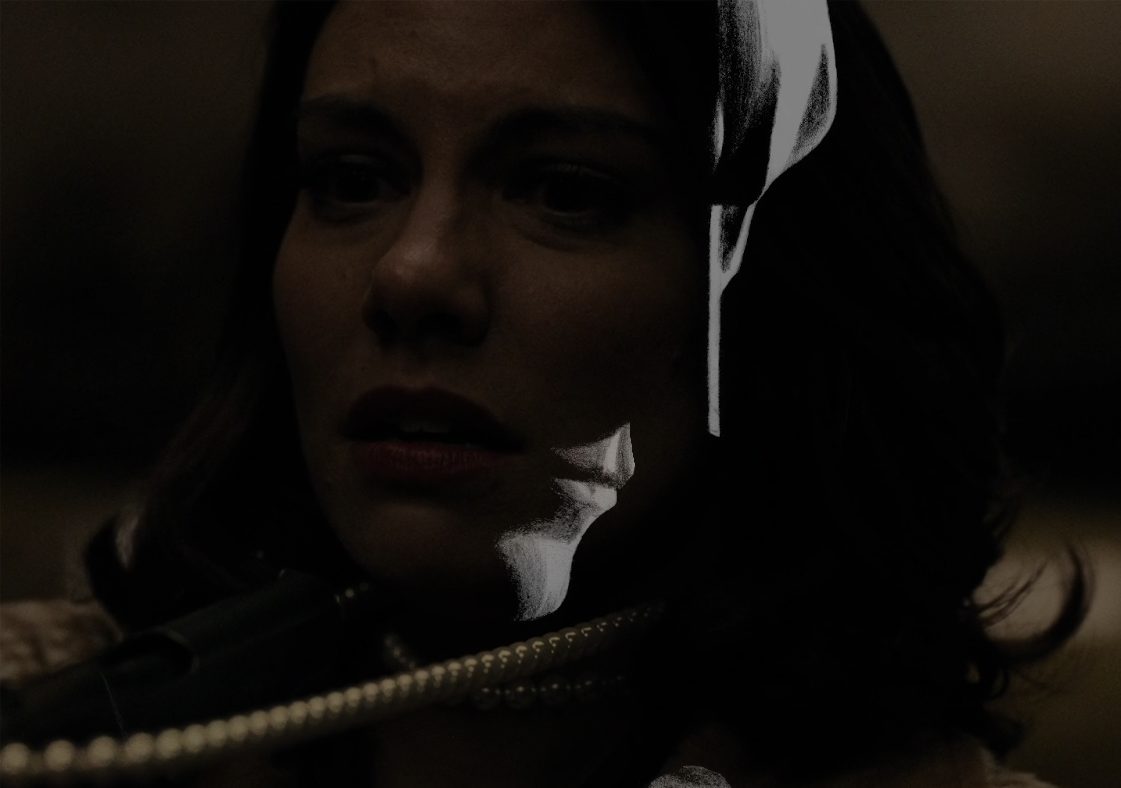
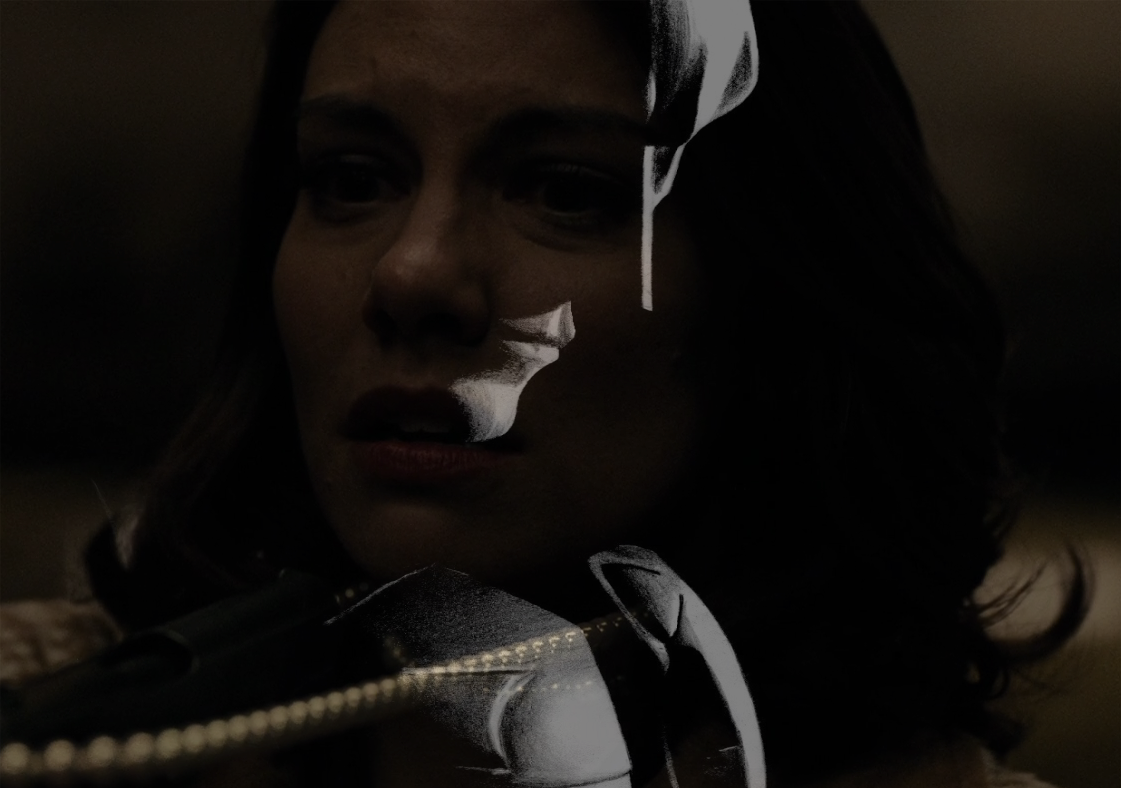
blend

Changed region(s): [[0.3434, 0.5178, 0.6869, 1.0], [0.562, 0.0, 0.7493, 0.5482], [0.4059, 0.3655, 0.5308, 0.5787]]

diff --git a/src/trial.java b/src/trial.java
@@ -3,6 +3,7 @@ import java.awt.BufferCapabilities.FlipContents;
 import org.opencv.core.Core;
 import org.opencv.core.CvType;
 import org.opencv.core.Mat;
+import org.opencv.core.Size;
 import org.opencv.imgcodecs.Imgcodecs;
 import org.opencv.imgproc.Imgproc;
 
@@ -17,6 +18,8 @@ public class trial {
           Mat figure3 = imageCodecs.imread("A1I/Q1I2.jpg");
         // flip figure 3
         core.flip(figure3,figure3,1);
+        Imgproc.resize(figure3, figure3, new Size(1121,788 ));
+
         //write the flipped image 
         imageCodecs.imwrite("flipped.png",figure3);
 //        System.out.println("mat = " + figure3.height());
@@ -24,18 +27,35 @@ public class trial {
         //read figure1
         Mat figure1 = imageCodecs.imread("A1I/Q1I1.png");
         //brightness and contrast
-        double alpha = 10;
+        double alpha = 2;
         double beta = 100;
         Mat destination = new Mat(figure1.rows(),figure1.cols(),figure1.type());
-        figure1.convertTo(destination, -1, alpha, beta);
-        imageCodecs.imwrite("test2.png",destination);
-        
+//        figure1.convertTo(destination, -1, alpha, beta);
+        for(int row=0;row<figure1.rows();row++){
+        	for(int col=0;col<figure1.cols();col++){
+        		double[]fig1val= figure1.get(row, col);
+        		if(row==figure1.rows()/2)
+        		{   
+	        		if(alpha>0) alpha--;
+	        		if(beta>50)beta--;
+	        		System.out.println(alpha);
+	        		System.out.println(beta);
+	        	}
+        		destination.put(row, col, new double[]{(fig1val[0]*alpha)+beta,(fig1val[1]*alpha)+beta,
+        				(fig1val[2]*alpha)+beta});
+        	
+        	}
+        	}
+      imageCodecs.imwrite("bright.png",destination);
+
         //create final mat with figure 1 size as it is larger
+      
+      
         Mat finalMat = new Mat(figure1.rows(),figure1.cols(),figure1.type());
 
         // blending 0.5 of each figure
-        for(int row=0;row<figure1.rows();row++){
-        	for(int col=0;col<figure1.cols();col++){
+        for(int row=0;row<figure3.rows();row++){
+        	for(int col=0;col<figure3.cols();col++){
         		double[]fig1val= figure1.get(row, col);
         		double[]fig3val= figure3.get(row, col);
         		finalMat.put(row, col, new double[]{(fig3val[0]*0.5)+(fig1val[0]*0.5),(fig3val[1]*0.5)+(fig1val[1]*0.5),(fig3val[2]*0.5)+(fig1val[2]*0.5)});
